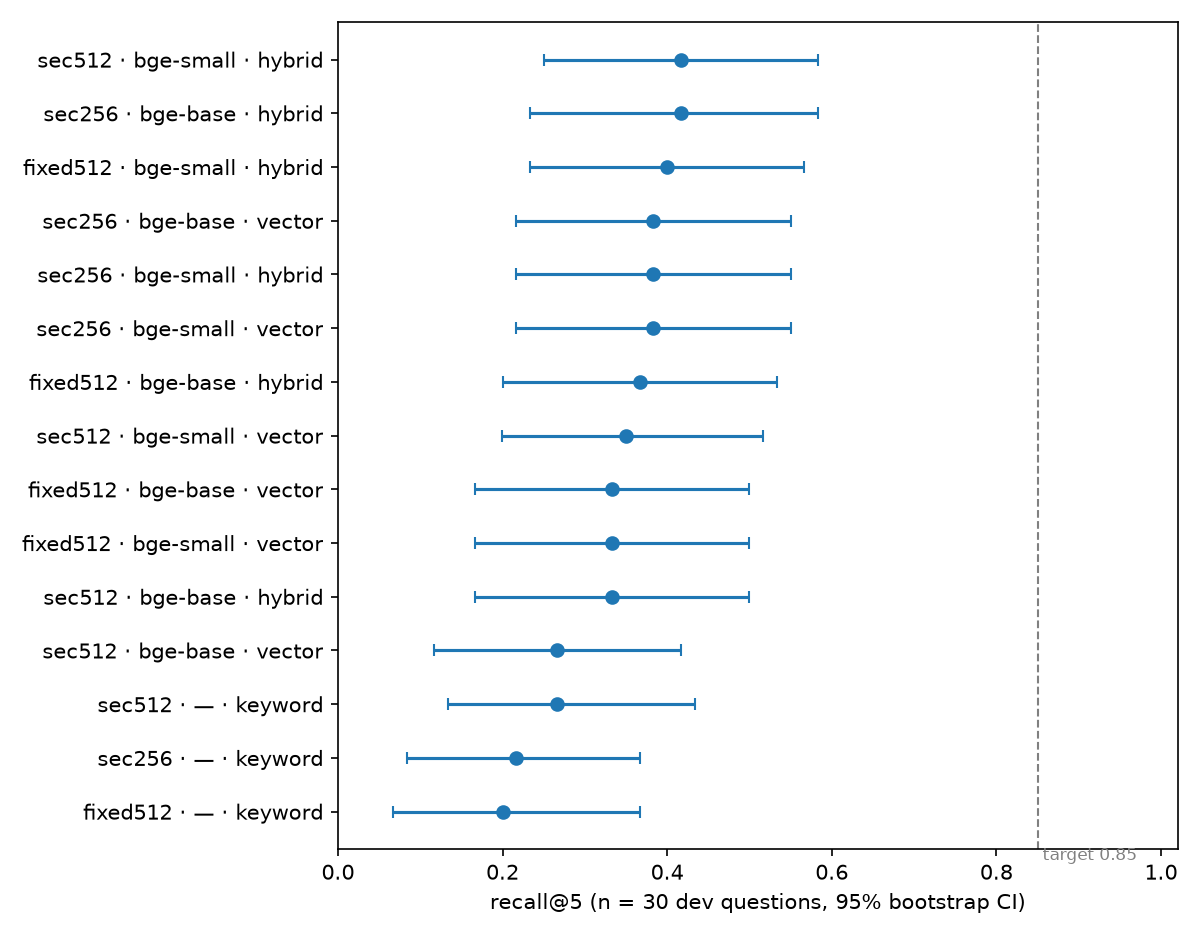
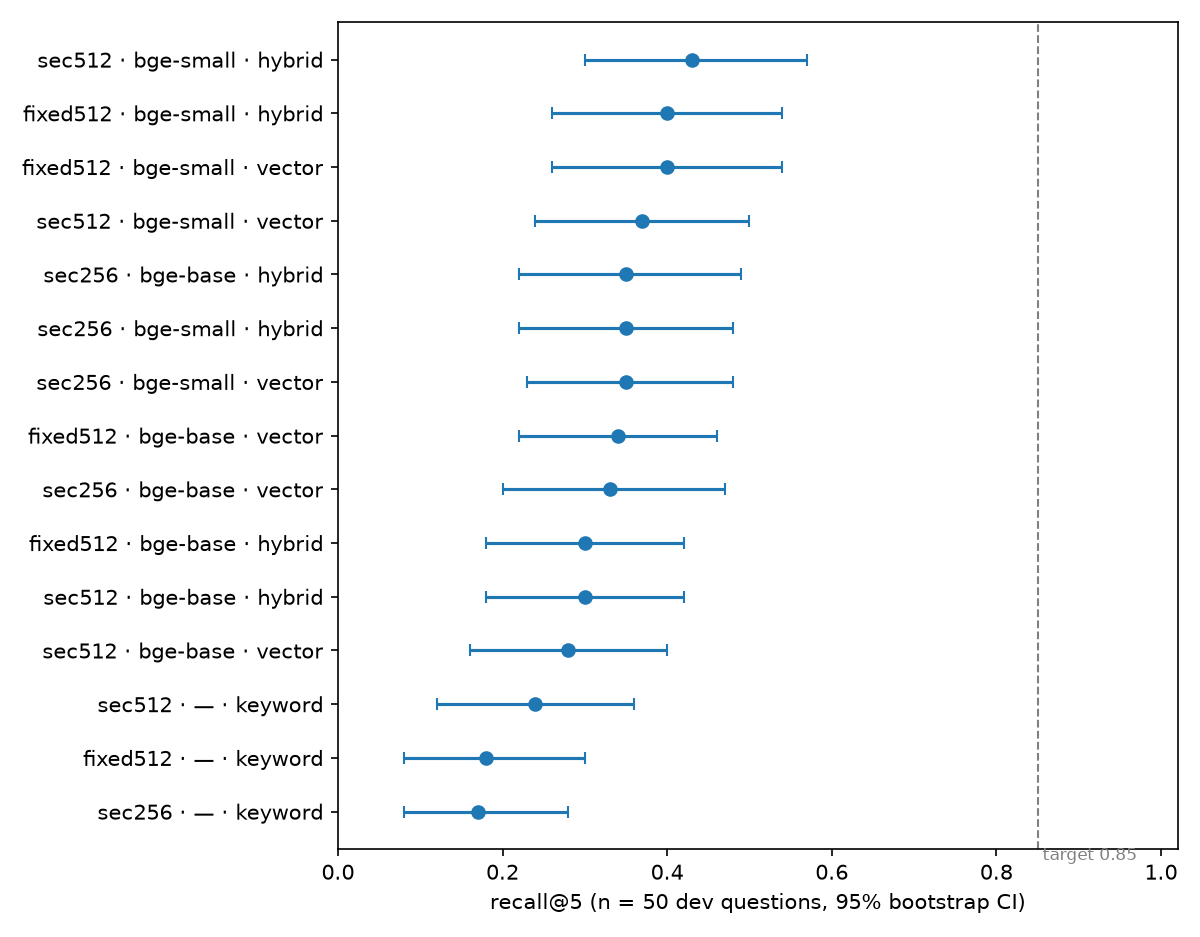
Re-run notebooks after the audit fixes
Notebook 03 reproduces exactly; the frozen config and held-out result are unchanged.
Notebook 02's grid was stale (30 Phase 1 questions); it now covers all 50 dev questions,
best baseline 0.43. Notebook 01's suspicious-section list predated parser v3's PFE fix.
README compares baseline and frozen config on the same 50 questions.

diff --git a/README.md b/README.md
@@ -15,7 +15,7 @@ Research only. Not investment advice.
 |---|---|---|---|
 | Held-out retrieval recall@5 (scored once) | **0.62** [0.49, 0.76] | 45 | notebook 03 |
 | Held-out MRR / nDCG@10 | 0.43 / 0.57 | 45 | notebook 03 |
-| Dev recall@5, first baseline → frozen config | 0.42 → 0.54 | 30 → 50 | notebooks 02, 03 |
+| Dev recall@5, Phase 1 baseline → frozen config | 0.43 → 0.54 | 50 | notebooks 02, 03 |
 | Target | 0.85 | | PRD |
 | Citation precision, refusal rate, faithfulness | not yet measured (needs an API key) | | notebook 03 |
 
